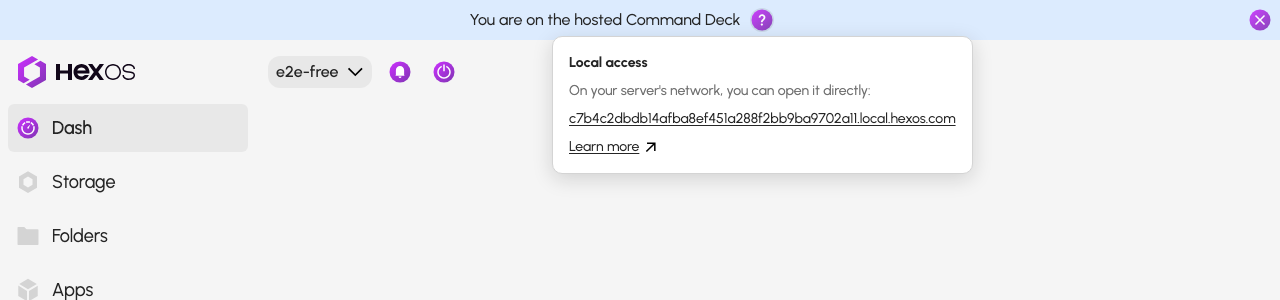
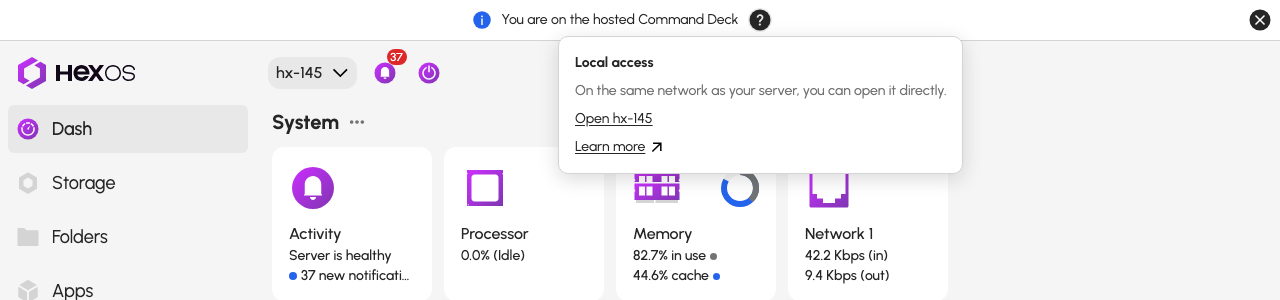
docs: Local access now keeps you on deck.hexos.com and reaches the server directly
The hosted Command Deck no longer moves the browser to the server's own deck. The local access page and the file browser page describe the Local badge, the status line in the server dropdown, the Open local deck link and the restyled strip, with new screenshots. This must not merge before hexos-platform #3137 is released.

diff --git a/troubleshooting/local-access.md b/troubleshooting/local-access.md
@@ -1,8 +1,8 @@
 ---
 title: Local access to your server
-description: What local access is, where to find your server's own address, and how to let the Command Deck open it for you
+description: What local access is, how the Command Deck uses it, and where to find your server's own address
 published: true
-date: 2026-11-04T00:00:00.000Z
+date: 2026-11-17T00:00:00.000Z
 tags: local access, browser, permissions
 editor: markdown
 dateCreated: 2026-11-04T00:00:00.000Z
@@ -10,35 +10,39 @@ dateCreated: 2026-11-04T00:00:00.000Z
 
 # Local access to your server
 
-Your server has an address of its own on your home network. Opening the Command Deck at that address keeps your files and apps on your own network instead of sending them through the internet, which is faster and keeps working when your internet connection does not.
+Your server has an address of its own on your home network. When the Command Deck talks to your server at that address, your files and pages stay on your own network instead of travelling through the internet, which is faster.
 
-When you open the hosted Command Deck at [deck.hexos.com](https://deck.hexos.com), it checks whether your browser can reach that address and, when it can, hands you over on its own. When the check does not succeed, you stay on the hosted deck, which keeps working as it is, and a question mark appears beside **You are on the hosted Command Deck** at the top of the page. A check that does not succeed does not mean the address is unreachable: your browser may simply not allow the deck to look for your server. You can still open the address yourself.
+When you open the Command Deck at [deck.hexos.com](https://deck.hexos.com), it checks whether your browser can reach that address. When it can, the deck stays where it is and loads your server's pages straight from the server. A **Local** badge appears beside your server's name at the top, and uploads and downloads in the file browser work.
+
+![The Local badge beside the server's name](/local-access/server-dropdown-on-your-network.png)
+
+When the check does not succeed, everything keeps working through HexOS Cloud, a little slower. A check that does not succeed does not mean the address is unreachable: your browser may simply not allow the deck to look for your server. You can still open the address yourself.
 
 ## Find your server's local address
 
 You can open your server's own address at any time, whether or not the deck found it for you. The address works whenever you are on the same network as your server.
 
-- **From the hosted deck.** Click the question mark beside **You are on the hosted Command Deck**. It shows your server's address; click it to open your server directly, on the page you are looking at.
+- **From the hosted strip.** When the strip **You are on the hosted Command Deck** shows at the top, click the question mark beside it. It opens your server directly, on the page you are looking at.
 
-![The question mark at the top of the hosted Command Deck, with the server's address](/local-access/hosted-banner-local-access.png)
+![The question mark at the top of the hosted Command Deck, with the link that opens the server](/local-access/hosted-banner-local-access.png)
 
-- **From the server dropdown.** Open the server dropdown at the top of the Command Deck and choose **Switch to Local**.
+- **From the server dropdown.** Open the server dropdown at the top of the Command Deck and choose **Open local deck** under your server's name. The line above it says how the deck reaches your server right now: **On your network** or **Through HexOS Cloud**.
 
-![The server dropdown with Switch to Local](/local-access/server-dropdown-switch-to-local.png)
+![The server dropdown with Open local deck](/local-access/server-dropdown-on-your-network.png)
 
 - **From Preferences.** With expert mode on, go to **Preferences** > **Advanced**. The **Local Access URL** is your server's own address; open it, or bookmark it for next time.
 
 ![The Local Access URL under Preferences, Advanced](/local-access/preferences-advanced-local-access-url.png)
 
-If the address does not open, see [If the address cannot be reached](#if-the-address-cannot-be-reached) below. The deck returns you to the hosted Command Deck when it cannot reach your server there.
+If the address does not open, see [If the address cannot be reached](#if-the-address-cannot-be-reached) below.
 
-## Let the Command Deck open local access for you
+## Let the Command Deck use local access for you
 
-The hosted deck asks your server, at its local address, whether it is there. When it answers, the deck hands you over and shows **Return to Local** whenever you come back to the hosted deck.
+The deck asks your server, at its local address, whether it is there. When it answers, the deck loads your server's pages from it directly and shows the **Local** badge.
 
-Newer browsers ask before a website may look for devices on your home network, and remember the answer. If the question was dismissed or answered **Block**, the deck's check cannot succeed in that browser, so you stay on the hosted deck. Blocking the check does not block the address itself: the ways to open it above still work.
+Newer browsers ask before a website may look for devices on your home network, and remember the answer. If the question was dismissed or answered **Block**, the deck's check cannot succeed in that browser, so everything goes through HexOS Cloud and a strip at the top says **You are on the hosted Command Deck**. Blocking the check does not block the address itself: the ways to open it above still work.
 
-To let the deck hand you over on its own, allow local network access for `deck.hexos.com`, then reload the page.
+To let the deck reach your server directly, allow local network access for `deck.hexos.com`, then reload the page.
 
 ### Google Chrome
 
@@ -95,11 +99,13 @@ macOS keeps its own list of apps allowed to reach devices on your network, and y
 
 ## If the address cannot be reached
 
-When your server's own address does not open, or the deck keeps returning you to the hosted Command Deck, the path from this device to the server is the problem rather than the browser:
+When your server's own address does not open, or the **Local** badge never appears while you are at home, the path from this device to the server is the problem rather than the browser:
 
-- **A different network.** Local access only works from the same network as the server. On a guest network, a phone's mobile data or away from home, keep using the hosted Command Deck.
+- **A different network.** Local access only works from the same network as the server. On a guest network, a phone's mobile data or away from home, the deck works through HexOS Cloud.
 - **A VPN.** A VPN on this device can send your server's local address out through the tunnel. Pause the VPN, or allow local network access in its settings, and try again.
 - **Your router's DNS rebind protection.** Many routers refuse the kind of address HexOS uses for local access. The deck shows a **Network** message when it finds this; the steps are in [DNS rebind protection](/troubleshooting/dns-rebind-protection).
+- **A server that is still updating.** The deck talks to your server directly only when the server runs the current HexOS version. Right after a HexOS release, the badge returns once your server has updated itself.
+- **Remote Management is off.** A server set to be managed locally only answers its own Command Deck; use **Open local deck**.
 - **A firewall or an isolated Wi-Fi network.** Client isolation on a Wi-Fi network, or a firewall on this device, can block the connection to the server's ports. See [Network ports](/troubleshooting/network-ports) for what must be open.
 
-Everything in the Command Deck keeps working through the hosted deck in the meantime. Only the direct path to your server is affected.
+Everything in the Command Deck except uploads and downloads keeps working through HexOS Cloud in the meantime. Only the direct path to your server is affected.

diff --git a/features/file-browser.md b/features/file-browser.md
@@ -250,7 +250,7 @@ For everyday file work, and for moving large amounts of data, connecting your co
 
 Uploading and downloading move file data between your computer and your server directly, so they are only available when you are on the same network as your server.
 
-If you are away from home, the **Upload** and **Download** buttons show a warning and explain how to switch to local access. Everything else — browsing, renaming, moving, deleting, downloading from the internet, and burning a USB stick — happens on the server itself and works from anywhere.
+At home, the Command Deck at deck.hexos.com reaches your server on its own, shown by the **Local** badge beside the server's name, and the buttons work there. If you are away from home, or the badge is missing, the **Upload** and **Download** buttons show a warning and explain how to open your server's local deck. See [Local access to your server](/troubleshooting/local-access). Everything else (browsing, renaming, moving, deleting, downloading from the internet, and burning a USB stick) happens on the server itself and works from anywhere.
 
 > **Info:** If file actions are missing entirely, your server may need a HexOS update before they become available. Browsing still works in the meantime.
 {.is-info}
